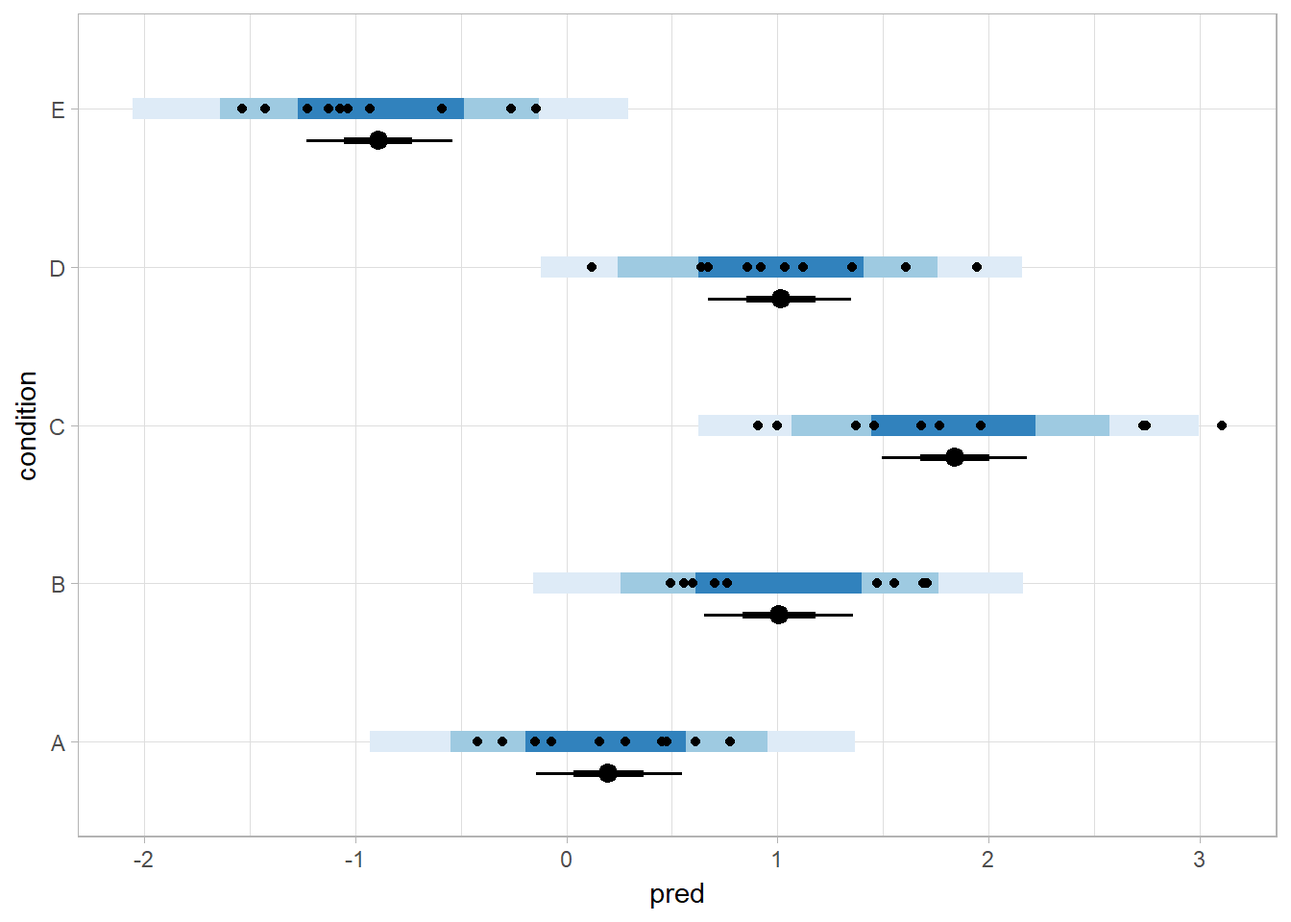
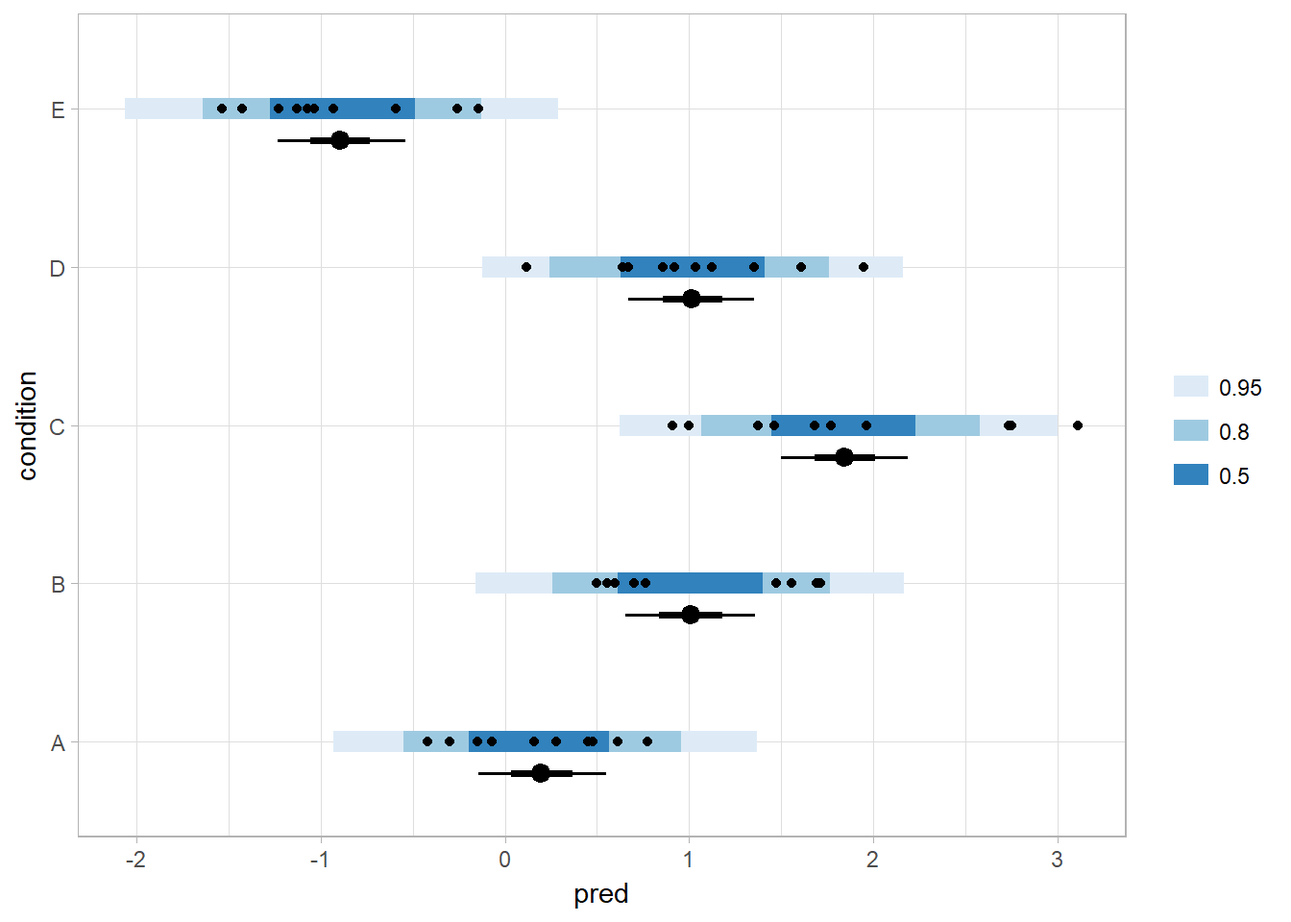
docs update

diff --git a/docs/index.html b/docs/index.html
@@ -277,18 +277,17 @@ bayes_estimates</code></pre></div>
 <div id="posterior-prediction-and-complex-custom-plots" class="section level3">
 <h3 class="hasAnchor">
 <a href="#posterior-prediction-and-complex-custom-plots" class="anchor"></a>Posterior prediction and complex custom plots</h3>
-<p>The tidy data format returned by <code>spread_samples</code> also facilitates additional computation on parameters followed by the construction of more complex custom plots. For example, we can generate posterior predictions easily, and use the <code>.prob</code> argument of <code>mean_qih</code> to generate several intervals from the posterior predictions, then plot them alongside parameter estimates and the data:</p>
+<p>The tidy data format returned by <code>spread_samples</code> also facilitates additional computation on parameters followed by the construction of more complex custom plots. For example, we can generate posterior predictions easily, and use the <code>.prob</code> argument (passed intervally to <code>mean_qi</code>) to generate any number of intervals from the posterior predictions, then plot them alongside parameter estimates and the data:</p>
 <div class="sourceCode"><pre class="sourceCode r"><code class="sourceCode r">m %&gt;%
 <span class="st">  </span><span class="kw"><a href="reference/spread_samples.html">spread_samples</a></span>(condition_mean[condition], response_sd) %&gt;%
 <span class="st">  </span><span class="kw">mutate</span>(<span class="dt">pred =</span> <span class="kw">rnorm</span>(<span class="kw">n</span>(), condition_mean, response_sd)) %&gt;%
 <span class="st">  </span><span class="kw">ggplot</span>(<span class="kw">aes</span>(<span class="dt">y =</span> condition)) +
 <span class="st">  </span>
 <span class="st">  </span><span class="co"># posterior predictive intervals</span>
-<span class="st">  </span><span class="kw">stat_summaryh</span>(<span class="kw">aes</span>(<span class="dt">x =</span> pred, <span class="dt">color =</span> <span class="kw">ordered</span>(-...prob..)), <span class="dt">size =</span> <span class="dv">4</span>,
-    <span class="dt">fun.data =</span> mean_qih, <span class="dt">fun.args =</span> <span class="kw">list</span>(<span class="dt">.prob =</span> <span class="kw">c</span>(.<span class="dv">95</span>, .<span class="dv">8</span>, .<span class="dv">5</span>)), <span class="dt">geom =</span> <span class="st">"linerangeh"</span>) +
-<span class="st">  </span><span class="kw">scale_color_brewer</span>(<span class="dt">guide =</span> <span class="ot">FALSE</span>) +
+<span class="st">  </span><span class="kw">stat_intervalh</span>(<span class="kw">aes</span>(<span class="dt">x =</span> pred), <span class="dt">.prob =</span> <span class="kw">c</span>(.<span class="dv">5</span>, .<span class="dv">8</span>, .<span class="dv">95</span>)) +
+<span class="st">  </span><span class="kw">scale_color_brewer</span>() +
 <span class="st">  </span>
-<span class="st">  </span><span class="co"># mean and qi of condition mean</span>
+<span class="st">  </span><span class="co"># mean and quantile intervals of condition mean</span>
 <span class="st">  </span><span class="kw">stat_pointintervalh</span>(<span class="kw">aes</span>(<span class="dt">x =</span> condition_mean), <span class="dt">.prob =</span> <span class="kw">c</span>(.<span class="dv">66</span>, .<span class="dv">95</span>), <span class="dt">position =</span> <span class="kw">position_nudge</span>(<span class="dt">y =</span> -<span class="fl">0.2</span>)) +
 <span class="st">  </span>
 <span class="st">  </span><span class="co"># data</span>
@@ -301,33 +300,43 @@ bayes_estimates</code></pre></div>
 <p>For models that support it (like <code>rstanarm</code> and <code>brms</code> models), We can also use the <code>add_fitted_samples</code> or <code>add_predicted_samples</code> functions to generate posterior fits or predictions. Combined with the functions from the <code>modelr</code> package, this makes it easy to generate fit curves.</p>
 <p>Let’s fit a slightly naive model to miles per gallon versus horsepower in the <code>mtcars</code> dataset:</p>
 <div class="sourceCode"><pre class="sourceCode r"><code class="sourceCode r">m_mpg =<span class="st"> </span><span class="kw">brm</span>(mpg ~<span class="st"> </span><span class="kw">log</span>(hp), <span class="dt">data =</span> mtcars, <span class="dt">family =</span> lognormal)</code></pre></div>
-<p>Now we will use <code><a href="http://www.rdocumentation.org/packages/modelr/topics/data_grid">modelr::data_grid</a></code> plus <code><a href="http://www.rdocumentation.org/packages/tidybayes/topics/add_predicted_samples">tidybayes::add_predicted_samples</a></code> to generate a fit curve with multiple probability bands:</p>
+<p>Now we will use <code><a href="http://www.rdocumentation.org/packages/modelr/topics/data_grid">modelr::data_grid</a></code>, <code><a href="http://www.rdocumentation.org/packages/tidybayes/topics/add_predicted_samples">tidybayes::add_predicted_samples</a></code>, and <code>tidybayes::stat_lineribbon</code> to generate a fit curve with multiple probability bands:</p>
 <div class="sourceCode"><pre class="sourceCode r"><code class="sourceCode r">mtcars %&gt;%
 <span class="st">  </span><span class="kw">data_grid</span>(<span class="dt">hp =</span> <span class="kw">seq_range</span>(hp, <span class="dt">n =</span> <span class="dv">100</span>)) %&gt;%
 <span class="st">  </span><span class="kw"><a href="reference/add_predicted_samples.html">add_predicted_samples</a></span>(m_mpg) %&gt;%
-<span class="st">  </span><span class="kw"><a href="reference/point_interval.html">median_qi</a></span>(<span class="dt">.prob =</span> <span class="kw">c</span>(.<span class="dv">99</span>, .<span class="dv">95</span>, .<span class="dv">8</span>, .<span class="dv">5</span>)) %&gt;%
 <span class="st">  </span><span class="kw">ggplot</span>(<span class="kw">aes</span>(<span class="dt">x =</span> hp)) +
-<span class="st">  </span><span class="kw"><a href="reference/geom_lineribbon.html">geom_lineribbon</a></span>(<span class="kw">aes</span>(<span class="dt">y =</span> pred)) +
+<span class="st">  </span><span class="kw">stat_lineribbon</span>(<span class="kw">aes</span>(<span class="dt">y =</span> pred), <span class="dt">.prob =</span> <span class="kw">c</span>(.<span class="dv">99</span>, .<span class="dv">95</span>, .<span class="dv">8</span>, .<span class="dv">5</span>)) +
 <span class="st">  </span><span class="kw">geom_point</span>(<span class="kw">aes</span>(<span class="dt">y =</span> mpg), <span class="dt">data =</span> mtcars) +
 <span class="st">  </span><span class="kw">scale_fill_brewer</span>()</code></pre></div>
 <p><img src="index_files/figure-html/unnamed-chunk-14-1.png" width="672"></p>
-<p><code><a href="reference/geom_lineribbon.html">geom_lineribbon(aes(y = pred))</a></code> in the above code is a shortcut for something like:</p>
-<div class="sourceCode"><pre class="sourceCode r"><code class="sourceCode r">  <span class="kw">geom_ribbon</span>(<span class="kw">aes</span>(<span class="dt">ymin =</span> conf.low, <span class="dt">ymax =</span> conf.high, <span class="dt">fill =</span> forcats::<span class="kw">fct_rev</span>(<span class="kw">ordered</span>(.prob)))) +
-<span class="st">  </span><span class="kw">geom_line</span>(<span class="kw">aes</span>(<span class="dt">y =</span> pred), <span class="dt">color =</span> <span class="st">"red"</span>, <span class="dt">size =</span> <span class="fl">1.25</span>)</code></pre></div>
+<p><code>stat_lineribbon(aes(y = pred), .prob = c(.99, .95, .8, .5))</code> is one of several shortcut geoms that simplify common combinations of <code>tidybayes</code> functions and <code>ggplot</code> goems. It is roughly equivalent to the following:</p>
+<div class="sourceCode"><pre class="sourceCode r"><code class="sourceCode r">  <span class="kw">stat_summary</span>(
+    <span class="kw">aes</span>(<span class="dt">y =</span> pred, <span class="dt">fill =</span> forcats::<span class="kw">fct_rev</span>(<span class="kw">ordered</span>(...prob..)), <span class="dt">group =</span> -...prob..), 
+    <span class="dt">geom =</span> <span class="st">"ribbon"</span>, <span class="dt">fun.data =</span> median_qi, <span class="dt">fun.args =</span> <span class="kw">list</span>(<span class="dt">.prob =</span> <span class="kw">c</span>(.<span class="dv">99</span>, .<span class="dv">95</span>, .<span class="dv">8</span>, .<span class="dv">5</span>)))
+  <span class="er">)</span> +
+<span class="st">  </span><span class="kw">stat_summary</span>(<span class="kw">aes</span>(<span class="dt">y =</span> pred), <span class="dt">fun.y =</span> median, <span class="dt">geom =</span> <span class="st">"line"</span>, <span class="dt">color =</span> <span class="st">"red"</span>, <span class="dt">size =</span> <span class="fl">1.25</span>)</code></pre></div>
 <p>Because this is all tidy data, if you wanted to build a model with interactions among different categorical variables (say a different curve for automatic and manula transmissions), you can easily generate predictions faceted over that variable (say, different curves for different transmission types). Then you could use the existing faceting features built in to ggplot to plot them.</p>
 <p>Such a model might be:</p>
 <div class="sourceCode"><pre class="sourceCode r"><code class="sourceCode r">m_mpg_am =<span class="st"> </span><span class="kw">brm</span>(mpg ~<span class="st"> </span><span class="kw">log</span>(hp)*am, <span class="dt">data =</span> mtcars, <span class="dt">family =</span> lognormal)</code></pre></div>
 <p>Then we can generate and plot predictions as before (differences from above are highlighted as comments):</p>
 <div class="sourceCode"><pre class="sourceCode r"><code class="sourceCode r">mtcars %&gt;%
-<span class="st">  </span><span class="kw">data_grid</span>(<span class="dt">hp =</span> <span class="kw">seq_range</span>(hp, <span class="dt">n =</span> <span class="dv">100</span>), am) %&gt;%<span class="st">    </span><span class="co"># add am to the prediction grid</span>
+<span class="st">  </span><span class="kw">data_grid</span>(<span class="dt">hp =</span> <span class="kw">seq_range</span>(hp, <span class="dt">n =</span> <span class="dv">101</span>), am) %&gt;%<span class="st">    </span><span class="co"># add am to the prediction grid</span>
 <span class="st">  </span><span class="kw"><a href="reference/add_predicted_samples.html">add_predicted_samples</a></span>(m_mpg_am) %&gt;%
-<span class="st">  </span><span class="kw"><a href="reference/point_interval.html">median_qi</a></span>(<span class="dt">.prob =</span> <span class="kw">c</span>(.<span class="dv">99</span>, .<span class="dv">95</span>, .<span class="dv">8</span>, .<span class="dv">5</span>)) %&gt;%
 <span class="st">  </span><span class="kw">ggplot</span>(<span class="kw">aes</span>(<span class="dt">x =</span> hp)) +
-<span class="st">  </span><span class="kw"><a href="reference/geom_lineribbon.html">geom_lineribbon</a></span>(<span class="kw">aes</span>(<span class="dt">y =</span> pred)) +
+<span class="st">  </span><span class="kw">stat_lineribbon</span>(<span class="kw">aes</span>(<span class="dt">y =</span> pred), <span class="dt">.prob =</span> <span class="kw">c</span>(.<span class="dv">99</span>, .<span class="dv">95</span>, .<span class="dv">8</span>, .<span class="dv">5</span>)) +
 <span class="st">  </span><span class="kw">geom_point</span>(<span class="kw">aes</span>(<span class="dt">y =</span> mpg), <span class="dt">data =</span> mtcars) +
 <span class="st">  </span><span class="kw">scale_fill_brewer</span>() +
 <span class="st">  </span><span class="kw">facet_wrap</span>(~<span class="st"> </span>am)                                  <span class="co"># facet by am</span></code></pre></div>
-<p><img src="index_files/figure-html/unnamed-chunk-16-1.png" width="672"></p>
+<p><img src="index_files/figure-html/unnamed-chunk-17-1.png" width="672"></p>
+<p>Or, if you would like overplotted posterior fit lines, you can instead use <code><a href="http://www.rdocumentation.org/packages/tidybayes/topics/add_predicted_samples">tidybayes::add_fitted_samples</a></code> to get samples from fit lines (instead of predictions), select some reasonable number of them (say <code>n = 100</code>), and then plot them:</p>
+<div class="sourceCode"><pre class="sourceCode r"><code class="sourceCode r">mtcars %&gt;%
+<span class="st">  </span><span class="kw">data_grid</span>(<span class="dt">hp =</span> <span class="kw">seq_range</span>(hp, <span class="dt">n =</span> <span class="dv">101</span>), am) %&gt;%
+<span class="st">  </span><span class="kw"><a href="reference/add_predicted_samples.html">add_fitted_samples</a></span>(m_mpg_am, <span class="dt">n =</span> <span class="dv">100</span>) %&gt;%<span class="st">         </span><span class="co"># sample 100 fits from the posterior</span>
+<span class="st">  </span><span class="kw">ggplot</span>(<span class="kw">aes</span>(<span class="dt">x =</span> hp)) +
+<span class="st">  </span><span class="kw">geom_line</span>(<span class="kw">aes</span>(<span class="dt">y =</span> estimate, <span class="dt">group =</span> .iteration), <span class="dt">alpha =</span> <span class="fl">0.25</span>, <span class="dt">color =</span> <span class="st">"red"</span>) +
+<span class="st">  </span><span class="kw">geom_point</span>(<span class="kw">aes</span>(<span class="dt">y =</span> mpg), <span class="dt">data =</span> mtcars) +
+<span class="st">  </span><span class="kw">facet_wrap</span>(~<span class="st"> </span>am)</code></pre></div>
+<p><img src="index_files/figure-html/unnamed-chunk-18-1.png" width="672"></p>
 <p>See <code><a href="articles/tidybayes.html">vignette("tidybayes")</a></code> for a variety of additional examples and more explanation of how it works.</p>
 </div>
 </div>

diff --git a/docs/reference/add_predicted_samples.html b/docs/reference/add_predicted_samples.html
@@ -103,31 +103,35 @@
 or the posterior predictions of the model to the data in a long format.</p>
     
 
-    <pre class="usage"><span class='fu'>add_predicted_samples</span>(<span class='no'>newdata</span>, <span class='no'>model</span>, <span class='kw'>var</span> <span class='kw'>=</span> <span class='st'>"pred"</span>, <span class='no'>...</span>)
+    <pre class="usage"><span class='fu'>add_predicted_samples</span>(<span class='no'>newdata</span>, <span class='no'>model</span>, <span class='kw'>var</span> <span class='kw'>=</span> <span class='st'>"pred"</span>, <span class='no'>...</span>, <span class='kw'>n</span> <span class='kw'>=</span> <span class='kw'>NULL</span>)
 
-<span class='fu'>add_fitted_samples</span>(<span class='no'>newdata</span>, <span class='no'>model</span>, <span class='kw'>var</span> <span class='kw'>=</span> <span class='st'>"estimate"</span>, <span class='no'>...</span>)
+<span class='fu'>add_fitted_samples</span>(<span class='no'>newdata</span>, <span class='no'>model</span>, <span class='kw'>var</span> <span class='kw'>=</span> <span class='st'>"estimate"</span>, <span class='no'>...</span>, <span class='kw'>n</span> <span class='kw'>=</span> <span class='kw'>NULL</span>)
 
-<span class='fu'>predicted_samples</span>(<span class='no'>model</span>, <span class='no'>newdata</span>, <span class='kw'>var</span> <span class='kw'>=</span> <span class='st'>"pred"</span>, <span class='no'>...</span>)
+<span class='fu'>predicted_samples</span>(<span class='no'>model</span>, <span class='no'>newdata</span>, <span class='kw'>var</span> <span class='kw'>=</span> <span class='st'>"pred"</span>, <span class='no'>...</span>, <span class='kw'>n</span> <span class='kw'>=</span> <span class='kw'>NULL</span>)
 
-<span class='fu'>fitted_samples</span>(<span class='no'>model</span>, <span class='no'>newdata</span>, <span class='kw'>var</span> <span class='kw'>=</span> <span class='st'>"estimate"</span>, <span class='no'>...</span>)
-
-<span class='co'># S3 method for default</span>
-<span class='fu'>predicted_samples</span>(<span class='no'>model</span>, <span class='no'>newdata</span>, <span class='kw'>var</span> <span class='kw'>=</span> <span class='st'>"pred"</span>, <span class='no'>...</span>)
+<span class='fu'>fitted_samples</span>(<span class='no'>model</span>, <span class='no'>newdata</span>, <span class='kw'>var</span> <span class='kw'>=</span> <span class='st'>"estimate"</span>, <span class='no'>...</span>, <span class='kw'>n</span> <span class='kw'>=</span> <span class='kw'>NULL</span>)
 
 <span class='co'># S3 method for default</span>
-<span class='fu'>fitted_samples</span>(<span class='no'>model</span>, <span class='no'>newdata</span>, <span class='kw'>var</span> <span class='kw'>=</span> <span class='st'>"estimate"</span>, <span class='no'>...</span>)
+<span class='fu'>predicted_samples</span>(<span class='no'>model</span>, <span class='no'>newdata</span>, <span class='no'>...</span>)
+
+<span class='co'># S3 method for default</span>
+<span class='fu'>fitted_samples</span>(<span class='no'>model</span>, <span class='no'>newdata</span>, <span class='no'>...</span>)
 
 <span class='co'># S3 method for stanreg</span>
-<span class='fu'>predicted_samples</span>(<span class='no'>model</span>, <span class='no'>newdata</span>, <span class='kw'>var</span> <span class='kw'>=</span> <span class='st'>"pred"</span>, <span class='no'>...</span>)
+<span class='fu'>predicted_samples</span>(<span class='no'>model</span>, <span class='no'>newdata</span>, <span class='kw'>var</span> <span class='kw'>=</span> <span class='st'>"pred"</span>, <span class='no'>...</span>,
+  <span class='kw'>n</span> <span class='kw'>=</span> <span class='kw'>NULL</span>)
 
 <span class='co'># S3 method for stanreg</span>
-<span class='fu'>fitted_samples</span>(<span class='no'>model</span>, <span class='no'>newdata</span>, <span class='kw'>var</span> <span class='kw'>=</span> <span class='st'>"estimate"</span>, <span class='no'>...</span>)
+<span class='fu'>fitted_samples</span>(<span class='no'>model</span>, <span class='no'>newdata</span>, <span class='kw'>var</span> <span class='kw'>=</span> <span class='st'>"estimate"</span>, <span class='no'>...</span>,
+  <span class='kw'>n</span> <span class='kw'>=</span> <span class='kw'>NULL</span>)
 
 <span class='co'># S3 method for brmsfit</span>
-<span class='fu'>predicted_samples</span>(<span class='no'>model</span>, <span class='no'>newdata</span>, <span class='kw'>var</span> <span class='kw'>=</span> <span class='st'>"pred"</span>, <span class='no'>...</span>)
+<span class='fu'>predicted_samples</span>(<span class='no'>model</span>, <span class='no'>newdata</span>, <span class='kw'>var</span> <span class='kw'>=</span> <span class='st'>"pred"</span>, <span class='no'>...</span>,
+  <span class='kw'>n</span> <span class='kw'>=</span> <span class='kw'>NULL</span>)
 
 <span class='co'># S3 method for brmsfit</span>
-<span class='fu'>fitted_samples</span>(<span class='no'>model</span>, <span class='no'>newdata</span>, <span class='kw'>var</span> <span class='kw'>=</span> <span class='st'>"estimate"</span>, <span class='no'>...</span>)</pre>
+<span class='fu'>fitted_samples</span>(<span class='no'>model</span>, <span class='no'>newdata</span>, <span class='kw'>var</span> <span class='kw'>=</span> <span class='st'>"estimate"</span>, <span class='no'>...</span>,
+  <span class='kw'>n</span> <span class='kw'>=</span> <span class='kw'>NULL</span>)</pre>
     
     <h2 class="hasAnchor" id="arguments"><a class="anchor" href="#arguments"></a> Arguments</h2>
     <table class="ref-arguments">
@@ -155,6 +159,10 @@ package (available at <a href='https://github.com/mjskay/tidybayes.rethinking'>h
       <th>...</th>
       <td><p>Additional arguments passed to the underlying prediction method for the type of
 model given.</p></td>
+    </tr>
+    <tr>
+      <th>n</th>
+      <td><p>The number of samples per prediction / fit to return.</p></td>
     </tr>
     </table>
     
@@ -187,6 +195,11 @@ are the preferred spellings.</p>
     <p><code><a href='spread_samples.html'>spread_samples</a></code></p>
     
 
+    <h2 class="hasAnchor" id="examples"><a class="anchor" href="#examples"></a>Examples</h2>
+    <pre class="examples"><div class='input'>
+##TODO
+
+</div></pre>
   </div>
   <div class="col-md-3 hidden-xs hidden-sm" id="sidebar">
     <h2>Contents</h2>
@@ -198,7 +211,9 @@ are the preferred spellings.</p>
       <li><a href="#details">Details</a></li>
 
       <li><a href="#see-also">See also</a></li>
-          </ul>
+      
+      <li><a href="#examples">Examples</a></li>
+    </ul>
 
     <h2>Author</h2>
     

diff --git a/docs/articles/tidybayes.html b/docs/articles/tidybayes.html
@@ -245,7 +245,7 @@ model {
 ## condition_mean[5] -0.89    0.00 0.17 -1.23 -1.01 -0.89 -0.78 -0.54  4000    1
 ## response_sd        0.56    0.00 0.06  0.46  0.52  0.55  0.60  0.70  1556    1
 ## 
-## Samples were drawn using NUTS(diag_e) at Fri Aug 18 00:41:40 2017.
+## Samples were drawn using NUTS(diag_e) at Sat Aug 19 00:00:29 2017.
 ## For each parameter, n_eff is a crude measure of effective sample size,
 ## and Rhat is the potential scale reduction factor on split chains (at 
 ## convergence, Rhat=1).</code></pre>
@@ -260,24 +260,24 @@ model {
 <p>Now that we have our results, the fun begins: getting the samples out in a tidy format! The default methods in Stan for extracting samples from the data do so in a nested format:</p>
 <div class="sourceCode"><pre class="sourceCode r"><code class="sourceCode r"><span class="kw">str</span>(<span class="kw">extract</span>(m))</code></pre></div>
 <pre><code>## List of 6
-##  $ overall_mean     : num [1:4000(1d)] 0.558 0.129 0.213 1.178 0.646 ...
+##  $ overall_mean     : num [1:4000(1d)] 0.512 0.214 0.772 0.83 0.482 ...
 ##   ..- attr(*, "dimnames")=List of 1
 ##   .. ..$ iterations: NULL
-##  $ condition_zoffset: num [1:4000, 1:5] -0.5338 0.1358 0.0533 -1.2864 -0.3851 ...
+##  $ condition_zoffset: num [1:4000, 1:5] -0.2277 0.1237 -0.7411 -0.6959 -0.0998 ...
 ##   ..- attr(*, "dimnames")=List of 2
 ##   .. ..$ iterations: NULL
 ##   .. ..$           : NULL
-##  $ response_sd      : num [1:4000(1d)] 0.489 0.46 0.514 0.509 0.521 ...
+##  $ response_sd      : num [1:4000(1d)] 0.444 0.554 0.521 0.554 0.623 ...
 ##   ..- attr(*, "dimnames")=List of 1
 ##   .. ..$ iterations: NULL
-##  $ condition_mean_sd: num [1:4000(1d)] 0.962 1.207 1.031 0.843 0.966 ...
+##  $ condition_mean_sd: num [1:4000(1d)] 1.449 1.17 0.963 0.631 1.055 ...
 ##   ..- attr(*, "dimnames")=List of 1
 ##   .. ..$ iterations: NULL
-##  $ condition_mean   : num [1:4000, 1:5] 0.0447 0.2931 0.2679 0.0929 0.2738 ...
+##  $ condition_mean   : num [1:4000, 1:5] 0.1824 0.3589 0.0587 0.3905 0.3769 ...
 ##   ..- attr(*, "dimnames")=List of 2
 ##   .. ..$ iterations: NULL
 ##   .. ..$           : NULL
-##  $ lp__             : num [1:4000(1d)] 1.03 1.116 1.646 0.522 2.784 ...
+##  $ lp__             : num [1:4000(1d)] 2.58 2.76 2.74 -1.91 -1.88 ...
 ##   ..- attr(*, "dimnames")=List of 1
 ##   .. ..$ iterations: NULL</code></pre>
 <p>There are also methods for extracting samples as matrices or data frames in stan (and other model types, such as JAGS and MCMCglmm, have their own formats).</p>

diff --git a/docs/reference/index.html b/docs/reference/index.html
@@ -191,19 +191,19 @@ estimates and intervals for ggplot2</p></td>
           <td>
             <p><code><a href="geom_interval.html">geom_interval</a></code> <code><a href="geom_interval.html">geom_intervalh</a></code> </p>
           </td>
-          <td><p>Interval geoms</p></td>
+          <td><p>Multiple probability interval geoms for ggplot</p></td>
         </tr><tr>
           <!--  -->
           <td>
             <p><code><a href="geom_lineribbon.html">geom_lineribbon</a></code> </p>
           </td>
-          <td><p>Line + ribbon geoms</p></td>
+          <td><p>Line + multiple probability ribbon geoms for ggplot</p></td>
         </tr><tr>
           <!--  -->
           <td>
             <p><code><a href="geom_pointinterval.html">geom_pointinterval</a></code> <code><a href="geom_pointinterval.html">geom_pointintervalh</a></code> </p>
           </td>
-          <td><p>Point + interval geoms</p></td>
+          <td><p>Point estimate + multiple probability interval geoms for ggplot</p></td>
         </tr><tr>
           <!--  -->
           <td>
@@ -237,9 +237,21 @@ estimates and intervals for ggplot2</p></td>
         </tr><tr>
           <!--  -->
           <td>
+            <p><code><a href="stat_interval.html">stat_interval</a></code> <code><a href="stat_interval.html">stat_intervalh</a></code> </p>
+          </td>
+          <td><p>Multiple probability interval stats</p></td>
+        </tr><tr>
+          <!--  -->
+          <td>
+            <p><code><a href="stat_lineribbon.html">stat_lineribbon</a></code> </p>
+          </td>
+          <td><p>Multiple probability interval stats</p></td>
+        </tr><tr>
+          <!--  -->
+          <td>
             <p><code><a href="stat_pointinterval.html">stat_pointinterval</a></code> <code><a href="stat_pointinterval.html">stat_pointintervalh</a></code> </p>
           </td>
-          <td><p>Point + interval stat</p></td>
+          <td><p>Point estimate + multiple probability interval stats for ggplot</p></td>
         </tr><tr>
           <!--  -->
           <td>

diff --git a/docs/reference/as_sample_tibble.html b/docs/reference/as_sample_tibble.html
@@ -167,6 +167,11 @@ with an implementation of <code><a href='http://www.rdocumentation.org/packages/
 internally and provides a friendly interface for extracting tidy data frames from model fits.</p>
     
 
+    <h2 class="hasAnchor" id="examples"><a class="anchor" href="#examples"></a>Examples</h2>
+    <pre class="examples"><div class='input'>
+##TODO
+
+</div></pre>
   </div>
   <div class="col-md-3 hidden-xs hidden-sm" id="sidebar">
     <h2>Contents</h2>
@@ -178,7 +183,9 @@ internally and provides a friendly interface for extracting tidy data frames fro
       <li><a href="#details">Details</a></li>
 
       <li><a href="#see-also">See also</a></li>
-          </ul>
+      
+      <li><a href="#examples">Examples</a></li>
+    </ul>
 
     <h2>Author</h2>
     

diff --git a/README.md b/README.md
@@ -243,7 +243,7 @@ bind_rows(linear_estimates, bayes_estimates) %>%
 
 ### Posterior prediction and complex custom plots
 
-The tidy data format returned by `spread_samples` also facilitates additional computation on parameters followed by the construction of more complex custom plots. For example, we can generate posterior predictions easily, and use the `.prob` argument of `mean_qih` to generate several intervals from the posterior predictions, then plot them alongside parameter estimates and the data:
+The tidy data format returned by `spread_samples` also facilitates additional computation on parameters followed by the construction of more complex custom plots. For example, we can generate posterior predictions easily, and use the `.prob` argument (passed intervally to `mean_qi`) to generate any number of intervals from the posterior predictions, then plot them alongside parameter estimates and the data:
 
 ``` r
 m %>%
@@ -252,11 +252,10 @@ m %>%
   ggplot(aes(y = condition)) +
   
   # posterior predictive intervals
-  stat_summaryh(aes(x = pred, color = ordered(-...prob..)), size = 4,
-    fun.data = mean_qih, fun.args = list(.prob = c(.95, .8, .5)), geom = "linerangeh") +
-  scale_color_brewer(guide = FALSE) +
+  stat_intervalh(aes(x = pred), .prob = c(.5, .8, .95)) +
+  scale_color_brewer() +
   
-  # mean and qi of condition mean
+  # mean and quantile intervals of condition mean
   stat_pointintervalh(aes(x = condition_mean), .prob = c(.66, .95), position = position_nudge(y = -0.2)) +
   
   # data
@@ -277,26 +276,28 @@ Let's fit a slightly naive model to miles per gallon versus horsepower in the `m
 m_mpg = brm(mpg ~ log(hp), data = mtcars, family = lognormal)
 ```
 
-Now we will use `modelr::data_grid` plus `tidybayes::add_predicted_samples` to generate a fit curve with multiple probability bands:
+Now we will use `modelr::data_grid`, `tidybayes::add_predicted_samples`, and `tidybayes::stat_lineribbon` to generate a fit curve with multiple probability bands:
 
 ``` r
 mtcars %>%
   data_grid(hp = seq_range(hp, n = 100)) %>%
   add_predicted_samples(m_mpg) %>%
-  median_qi(.prob = c(.99, .95, .8, .5)) %>%
   ggplot(aes(x = hp)) +
-  geom_lineribbon(aes(y = pred)) +
+  stat_lineribbon(aes(y = pred), .prob = c(.99, .95, .8, .5)) +
   geom_point(aes(y = mpg), data = mtcars) +
   scale_fill_brewer()
 ```
 
 ![](README_files/figure-markdown_github-ascii_identifiers/unnamed-chunk-14-1.png)
 
-`geom_lineribbon(aes(y = pred))` in the above code is a shortcut for something like:
+`stat_lineribbon(aes(y = pred), .prob = c(.99, .95, .8, .5))` is one of several shortcut geoms that simplify common combinations of `tidybayes` functions and `ggplot` goems. It is roughly equivalent to the following:
 
 ``` r
-  geom_ribbon(aes(ymin = conf.low, ymax = conf.high, fill = forcats::fct_rev(ordered(.prob)))) +
-  geom_line(aes(y = pred), color = "red", size = 1.25)
+  stat_summary(
+    aes(y = pred, fill = forcats::fct_rev(ordered(...prob..)), group = -...prob..), 
+    geom = "ribbon", fun.data = median_qi, fun.args = list(.prob = c(.99, .95, .8, .5)))
+  ) +
+  stat_summary(aes(y = pred), fun.y = median, geom = "line", color = "red", size = 1.25)
 ```
 
 Because this is all tidy data, if you wanted to build a model with interactions among different categorical variables (say a different curve for automatic and manula transmissions), you can easily generate predictions faceted over that variable (say, different curves for different transmission types). Then you could use the existing faceting features built in to ggplot to plot them.
@@ -311,17 +312,30 @@ Then we can generate and plot predictions as before (differences from above are 
 
 ``` r
 mtcars %>%
-  data_grid(hp = seq_range(hp, n = 100), am) %>%    # add am to the prediction grid
+  data_grid(hp = seq_range(hp, n = 101), am) %>%    # add am to the prediction grid
   add_predicted_samples(m_mpg_am) %>%
-  median_qi(.prob = c(.99, .95, .8, .5)) %>%
   ggplot(aes(x = hp)) +
-  geom_lineribbon(aes(y = pred)) +
+  stat_lineribbon(aes(y = pred), .prob = c(.99, .95, .8, .5)) +
   geom_point(aes(y = mpg), data = mtcars) +
   scale_fill_brewer() +
   facet_wrap(~ am)                                  # facet by am
 ```
 
-![](README_files/figure-markdown_github-ascii_identifiers/unnamed-chunk-16-1.png)
+![](README_files/figure-markdown_github-ascii_identifiers/unnamed-chunk-17-1.png)
+
+Or, if you would like overplotted posterior fit lines, you can instead use `tidybayes::add_fitted_samples` to get samples from fit lines (instead of predictions), select some reasonable number of them (say `n = 100`), and then plot them:
+
+``` r
+mtcars %>%
+  data_grid(hp = seq_range(hp, n = 101), am) %>%
+  add_fitted_samples(m_mpg_am, n = 100) %>%         # sample 100 fits from the posterior
+  ggplot(aes(x = hp)) +
+  geom_line(aes(y = estimate, group = .iteration), alpha = 0.25, color = "red") +
+  geom_point(aes(y = mpg), data = mtcars) +
+  facet_wrap(~ am)
+```
+
+![](README_files/figure-markdown_github-ascii_identifiers/unnamed-chunk-18-1.png)
 
 See `vignette("tidybayes")` for a variety of additional examples and more explanation of how it works.
 
